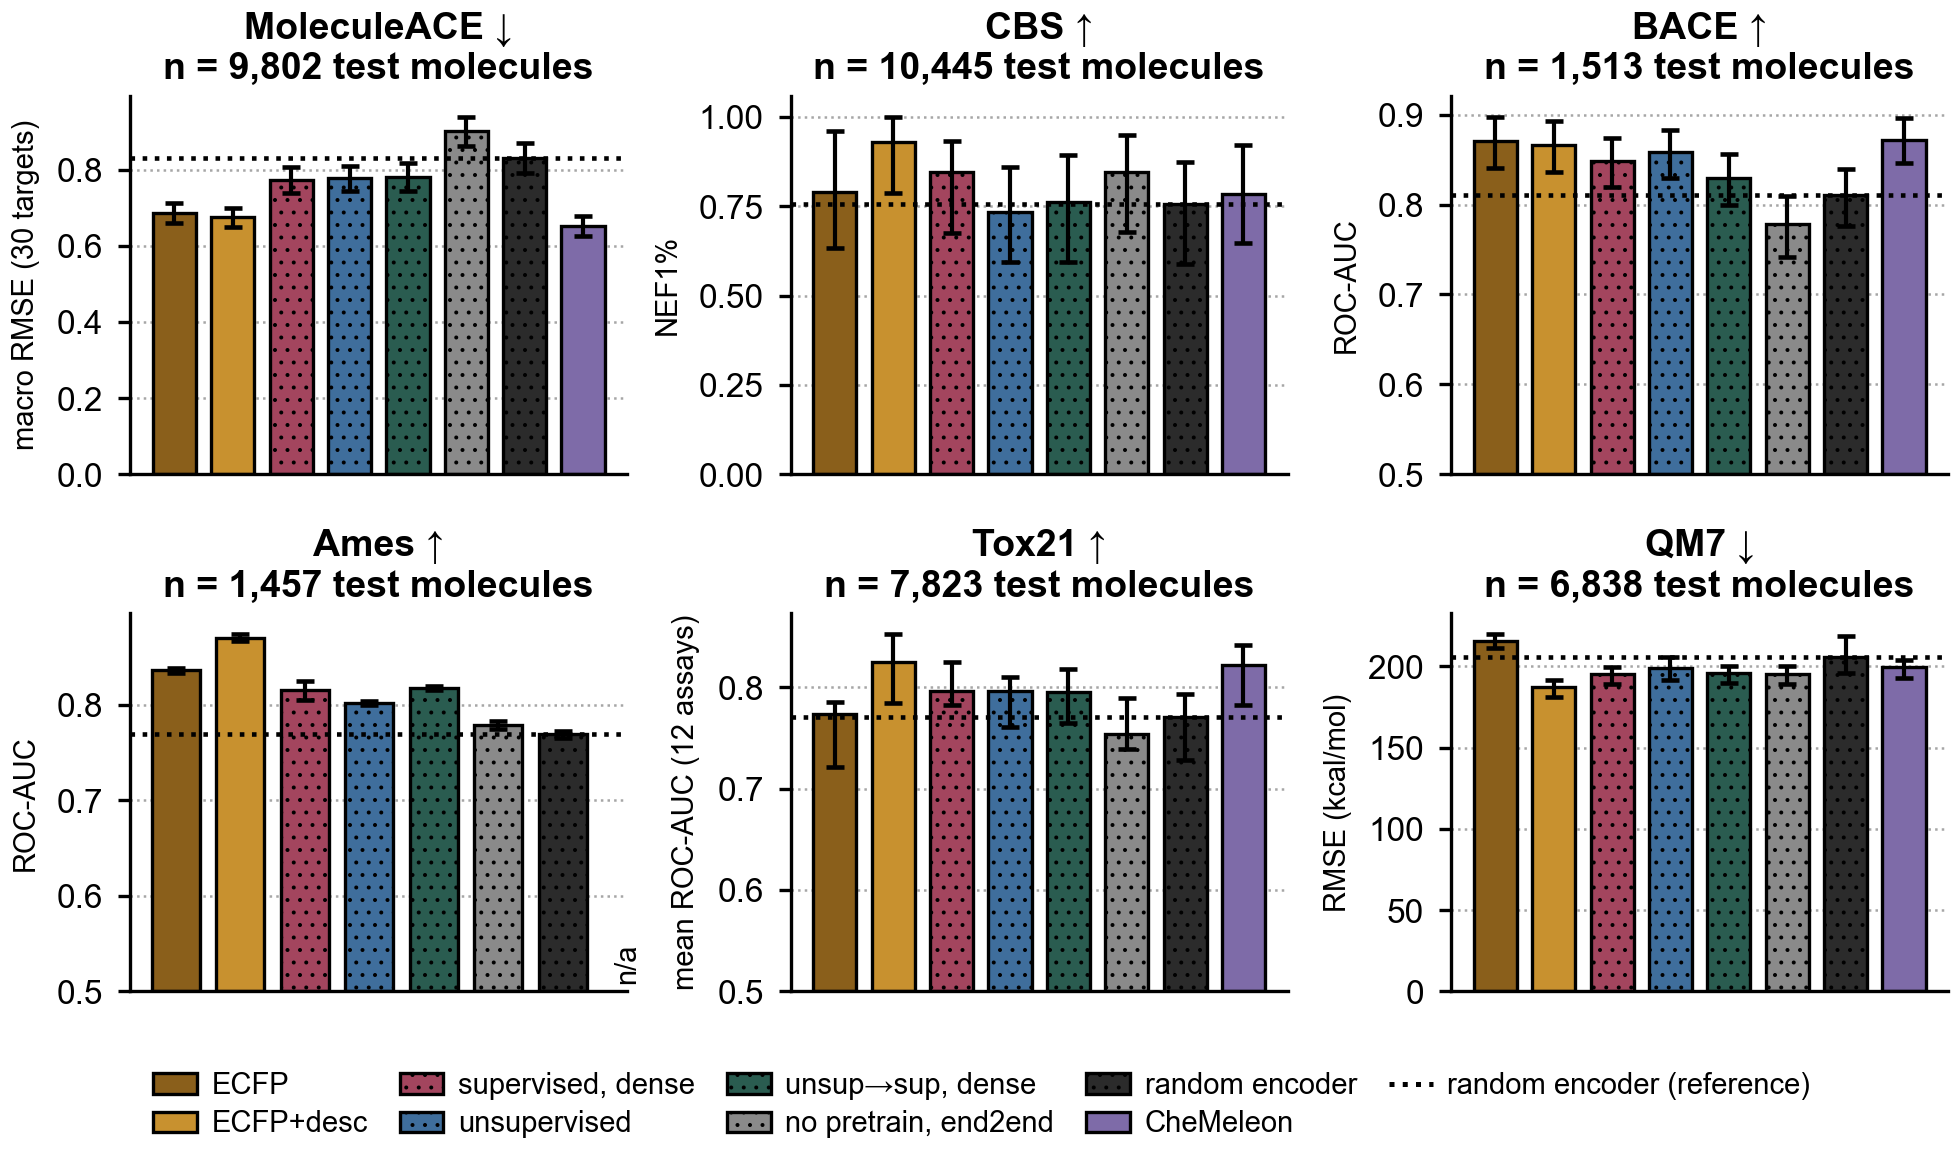
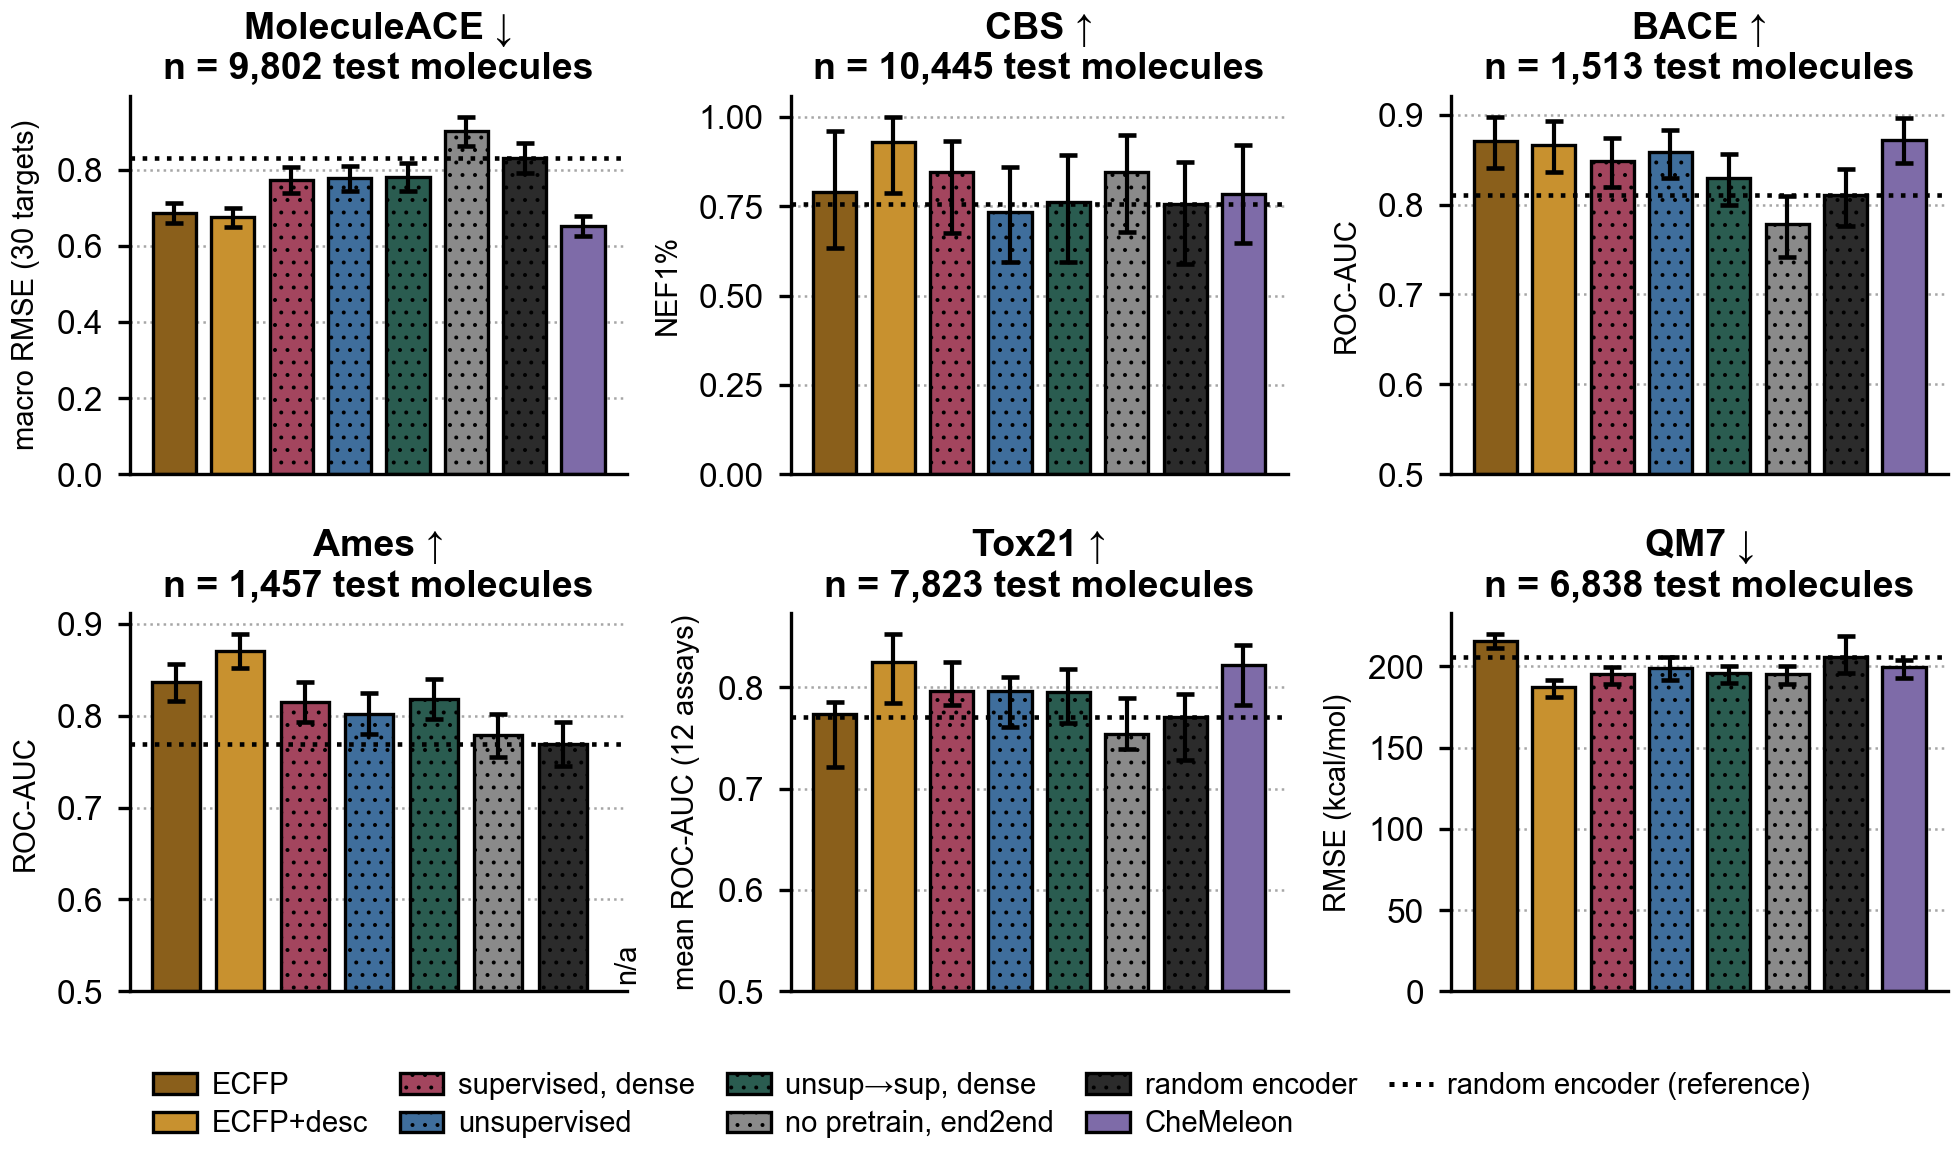
A2: Ames error bars were the legacy estimand, not the sampling CI
Caught by the user: the Ames whisker was implausibly small. Cause was the hERG -> Ames panel swap
— a2_errorbars.csv was still keyed on 'hERG', A2's lookup missed, and the panel silently fell back
to the LEGACY sd_total (SD over 3 eval seeds = run-to-run jitter on a fixed split). Ames drew
+-0.0025 next to +-0.03 sampling CIs on every other panel: an order of magnitude too tight AND a
different estimand from its neighbours, which is precisely what the unification was meant to end.

Fixed with scripts/a2_ames_se.py: Hanley-McNeil analytic SE at n=1457 (777 pos / 680 neg, the
53.32% train active rate applied to the withheld test split), the same route the hERG row used and
for the same reason — Polaris withholds test labels, so resampling is impossible. Ames now draws
+-0.020, ~8x its previous width and on the same estimand as the rest.

The script only touches the Ames rows; it does NOT recompute the scaffold/target bootstraps,
because the compute session is rebuilding those against the correct pooled estimator and a re-run
here would overwrite that with the known-broken global-ranking version.

Also dropped the 8 orphaned hERG rows, and recorded the failure mode in the A2 docstring so a
too-tight Ames whisker points straight at the fallback next time.

diff --git a/scripts/a2_ames_se.py b/scripts/a2_ames_se.py
@@ -1,0 +1,92 @@
+"""Add the Ames panel's analytic SE to figure_data/six_panel/a2_errorbars.csv.
+
+WHY THIS EXISTS. The six-panel suite swapped hERG for Ames on 2026-08-17, but a2_errorbars.csv
+still keyed its Polaris row as `hERG`. Fig A2 looks the interval up by panel name, found nothing
+for `Ames`, and silently fell back to the LEGACY sd_total — the SD across 3 eval seeds, which is
+run-to-run jitter on a fixed split, not sampling uncertainty. The result was an Ames whisker of
++-0.0025 next to +-0.03 sampling CIs on every other panel: an order of magnitude too small, and a
+different estimand from its neighbours. That is the exact inconsistency the panel swap was supposed
+to remove, so it is fixed here rather than left to the next full bootstrap run.
+
+METHOD — the same one the hERG row used, and for the same reason. Polaris withholds test labels
+(chemeleon_suite/data/polaris/tdcommons__ames.csv has `y` populated for train only), so the test
+set CANNOT be resampled and a bootstrap is impossible. The Hanley-McNeil analytic SE of an AUC is
+therefore the honest estimate, and the panel must be captioned as DERIVED, not resampled.
+
+Class balance: labels are withheld for the test split, so the positive rate is taken from TRAIN
+(3104 / 5821 = 53.32%) and applied to the 1457 test molecules -> 777 positive, 680 negative. Ames
+is close to balanced, which is the best case for AUC SE; hERG was 67.7% positive at n=132.
+
+This script ONLY touches the Ames rows. It deliberately does not recompute the scaffold- or
+target-cluster bootstraps: those are being rebuilt by the compute session against the correct
+pooled estimator, and re-running them here would overwrite that work with the known-broken
+global-ranking version.
+
+Run:  python3 scripts/a2_ames_se.py
+"""
+from __future__ import annotations
+
+import csv
+import math
+import statistics as st
+from pathlib import Path
+
+ROOT = Path(__file__).resolve().parent.parent
+FD = ROOT / "figure_data"
+OUT = FD / "six_panel" / "a2_errorbars.csv"
+TASK, METRIC = "tdcommons/ames", "roc_auc"
+N_POS, N_NEG = 777, 680                      # 1457 test at the 53.32% train active rate
+
+
+def hanley_mcneil(a: float, n1: int, n0: int) -> float:
+    q1, q2 = a / (2 - a), 2 * a * a / (1 + a)
+    return math.sqrt((a * (1 - a) + (n1 - 1) * (q1 - a * a) + (n0 - 1) * (q2 - a * a)) / (n1 * n0))
+
+
+def main() -> None:
+    import sys
+    sys.path.insert(0, str(ROOT))
+    from figures.arms import ARMS
+    import figures.fig_A2 as A2
+
+    rows = list(csv.DictReader(open(OUT)))
+    fields = rows[0].keys() if rows else []
+    kept = [r for r in rows if r["panel"] not in ("hERG", "Ames")]   # drop the stale key
+    dropped = len(rows) - len(kept)
+
+    added = 0
+    for arm in A2.MODELS:
+        base = ARMS[arm]["src"].get("mace")
+        if not base:
+            continue
+        vals = []
+        for d in (base, f"{base}_s1", f"{base}_s2"):
+            f = FD / "chemeleon_suite" / "polaris" / d / "polaris_scores.csv"
+            if not f.exists():
+                continue
+            for r in csv.DictReader(open(f)):
+                if r["task"] == TASK and r["metric"] == METRIC and r["value"] not in ("", "nan"):
+                    vals.append(float(r["value"]))
+        if not vals:
+            print(f"  {arm:18s} no Ames score -> no interval")
+            continue
+        a = st.mean(vals)
+        se = hanley_mcneil(a, N_POS, N_NEG)
+        kept.append(dict(arm=arm, panel="Ames", metric="roc_auc", value=round(a, 4),
+                         ci_lo=round(a - 1.96 * se, 4), ci_hi=round(a + 1.96 * se, 4),
+                         se=round(se, 4), method="analytic_hanley_mcneil_DERIVED",
+                         n_units=N_POS + N_NEG))
+        added += 1
+        print(f"  {arm:18s} AUC {a:.4f}  SE {se:.4f}  95% CI "
+              f"[{a - 1.96 * se:.4f}, {a + 1.96 * se:.4f}]  (n={len(vals)} eval scores)")
+
+    with open(OUT, "w", newline="") as fh:
+        w = csv.DictWriter(fh, fieldnames=list(fields))
+        w.writeheader()
+        w.writerows(kept)
+    print(f"\ndropped {dropped} stale hERG/Ames rows, wrote {added} Ames rows -> "
+          f"{OUT.relative_to(ROOT)}")
+
+
+if __name__ == "__main__":
+    main()

diff --git a/figures/fig_A2.py b/figures/fig_A2.py
@@ -106,6 +106,18 @@ def _ci():
     on a FIXED dataset and whose composition differed per panel (15 seed x fold cells vs 3 eval
     seeds of a PRE-AVERAGED 30-target mean vs head-seed-only noise on one split).
 
+    ONE ESTIMAND, TWO ROUTES TO IT. Five panels resample their evaluation units (scaffold clusters
+    for BACE/Tox21/QM7/CBS, the 30 targets for MoleculeACE). Ames CANNOT be resampled — Polaris
+    withholds its test labels — so its interval is the Hanley-McNeil ANALYTIC SE of the AUC at
+    n=1457 (777 positive / 680 negative, the 53.32% train active rate applied to the test split),
+    written by scripts/a2_ames_se.py and marked `analytic_hanley_mcneil_DERIVED`. Same question,
+    same units, derived rather than resampled — say so in the caption.
+
+    This panel silently regressed once already: the hERG -> Ames swap left a2_errorbars.csv keyed
+    on `hERG`, the lookup missed, and Ames fell back to the legacy sd_total (+-0.0025, eval-seed
+    jitter) while its neighbours showed +-0.03 sampling CIs. If an Ames whisker ever looks an order
+    of magnitude tighter than the others again, that fallback is why.
+
     KNOWN CAVEAT, do not paper over: the CI file's own `value` column reproduces mainline_8M.csv
     EXACTLY on MoleculeACE and hERG (0.00% on every arm) but differs on the other four panels —
     median 0.43% BACE, 0.81% Tox21, 0.09% QM7, 3.66% CBS (worst cell: unsup on CBS, +0.079 =
